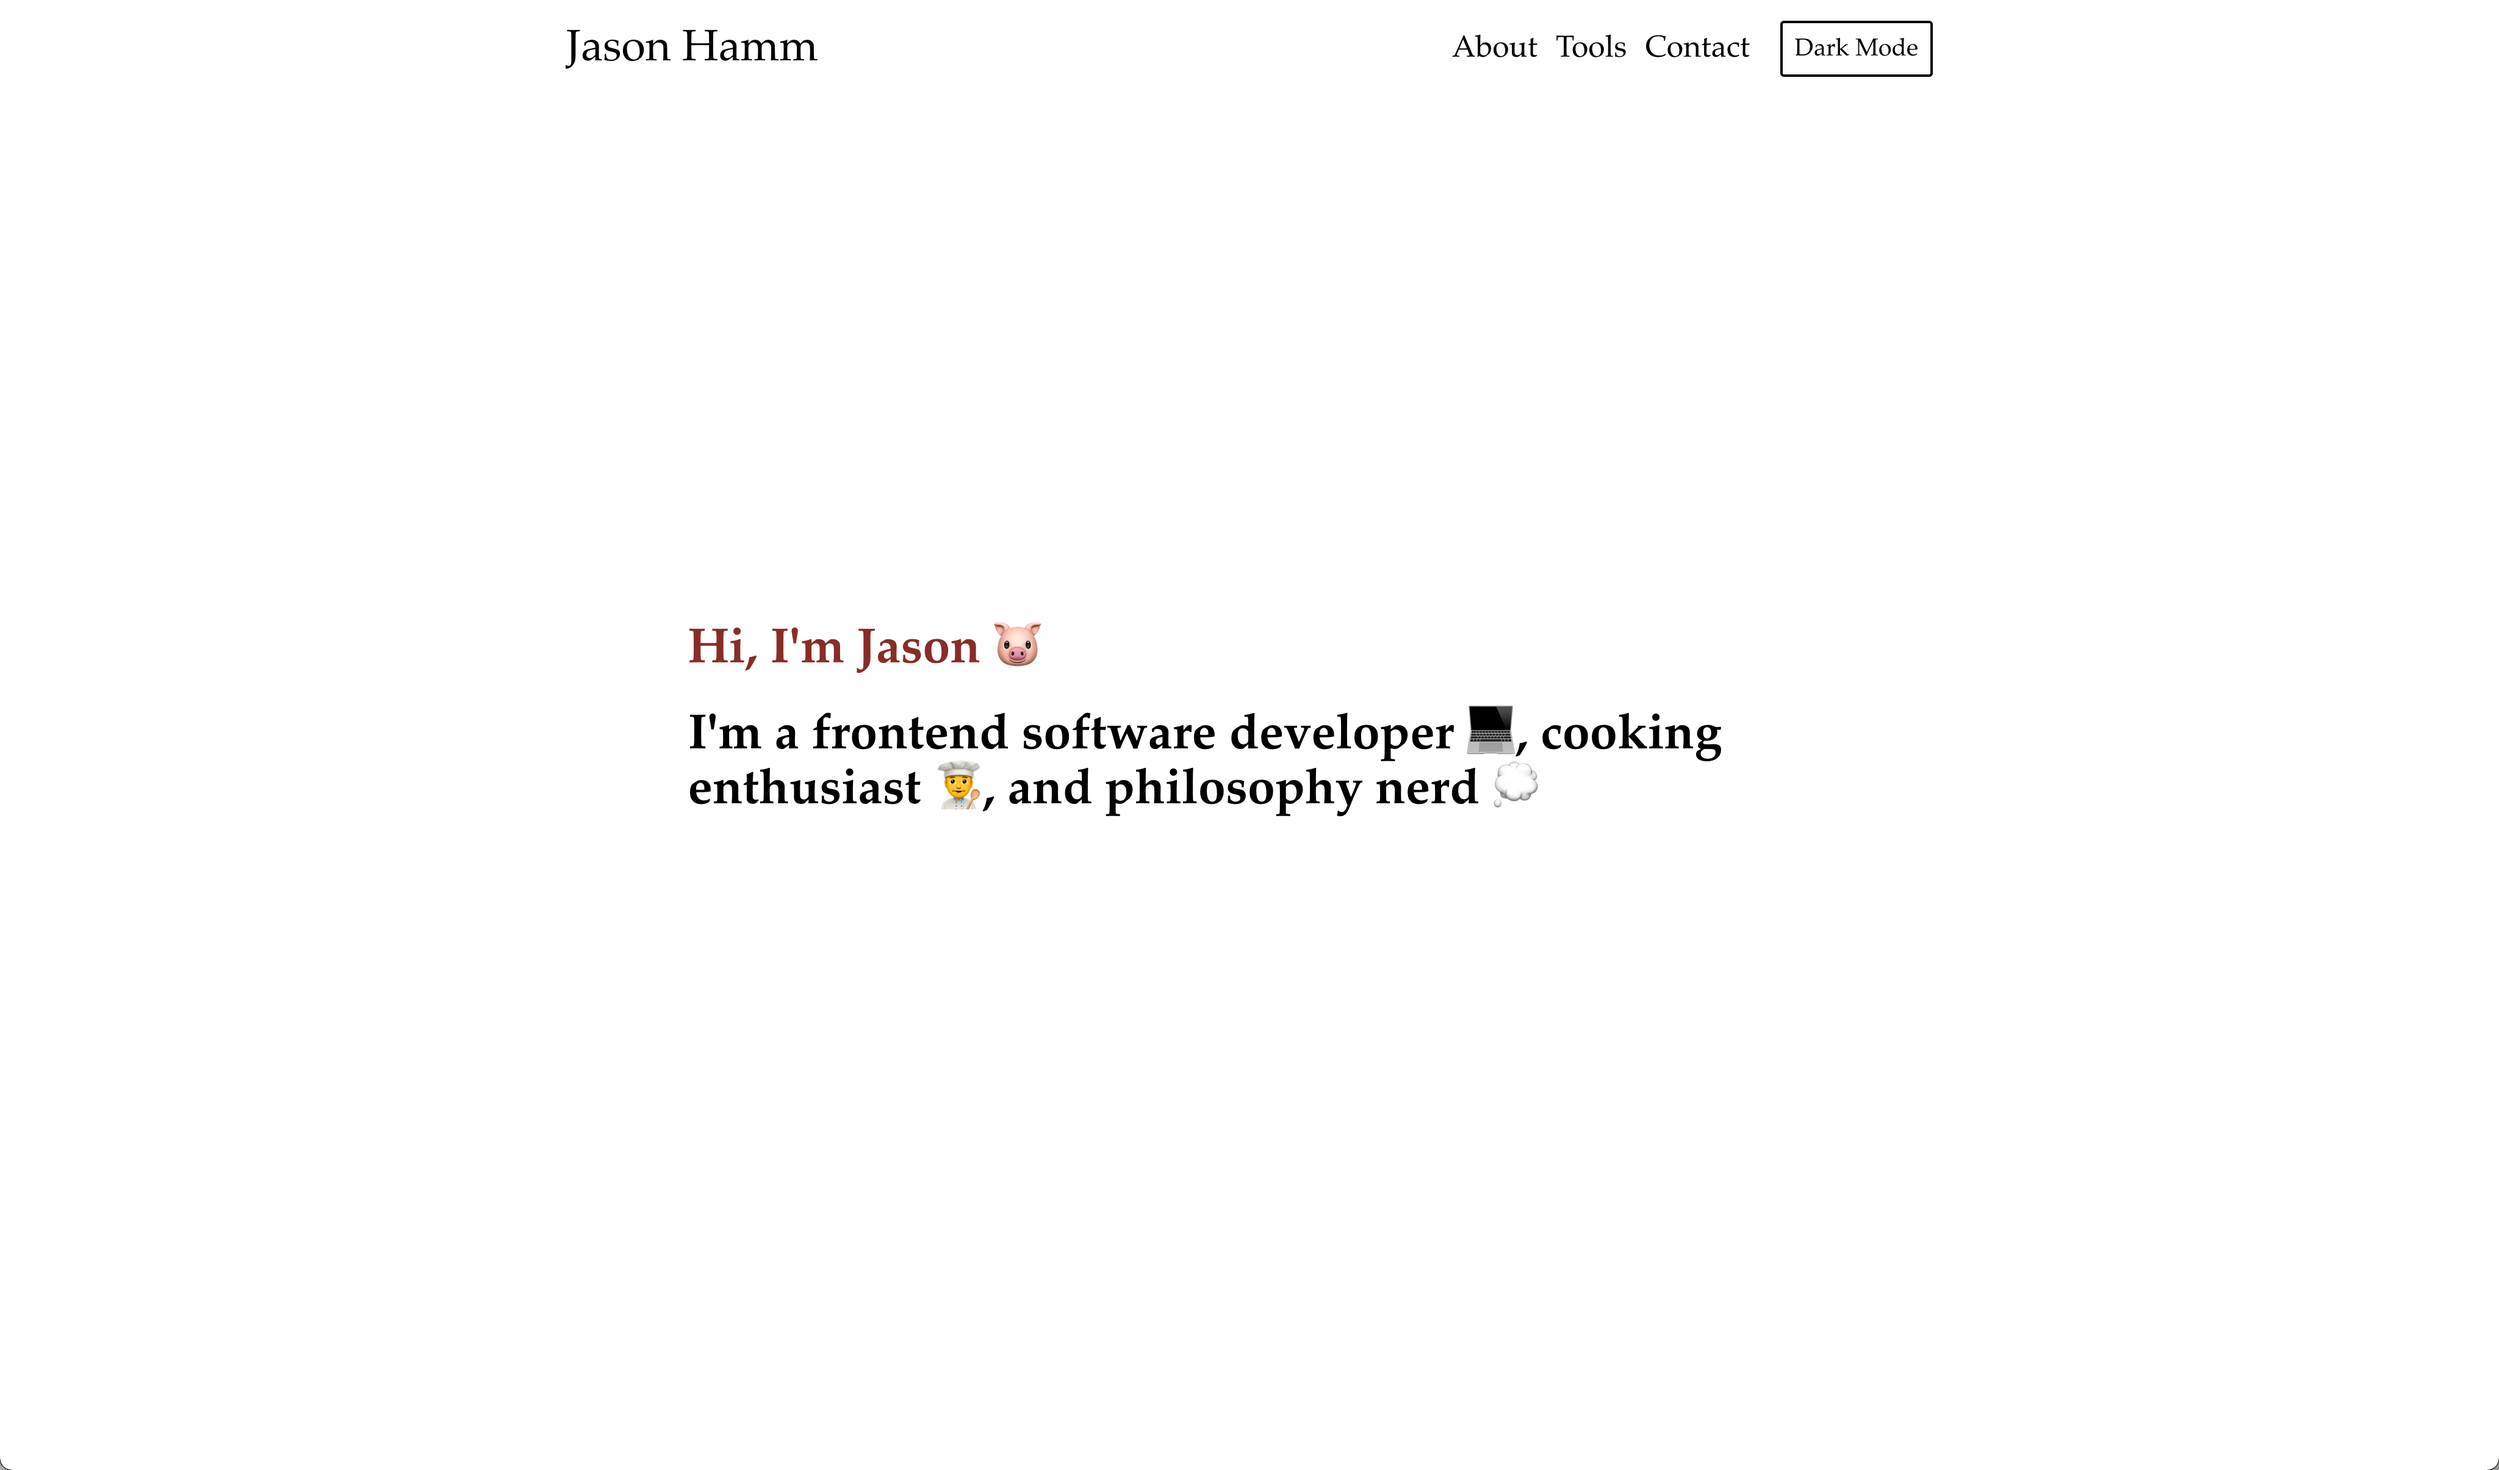
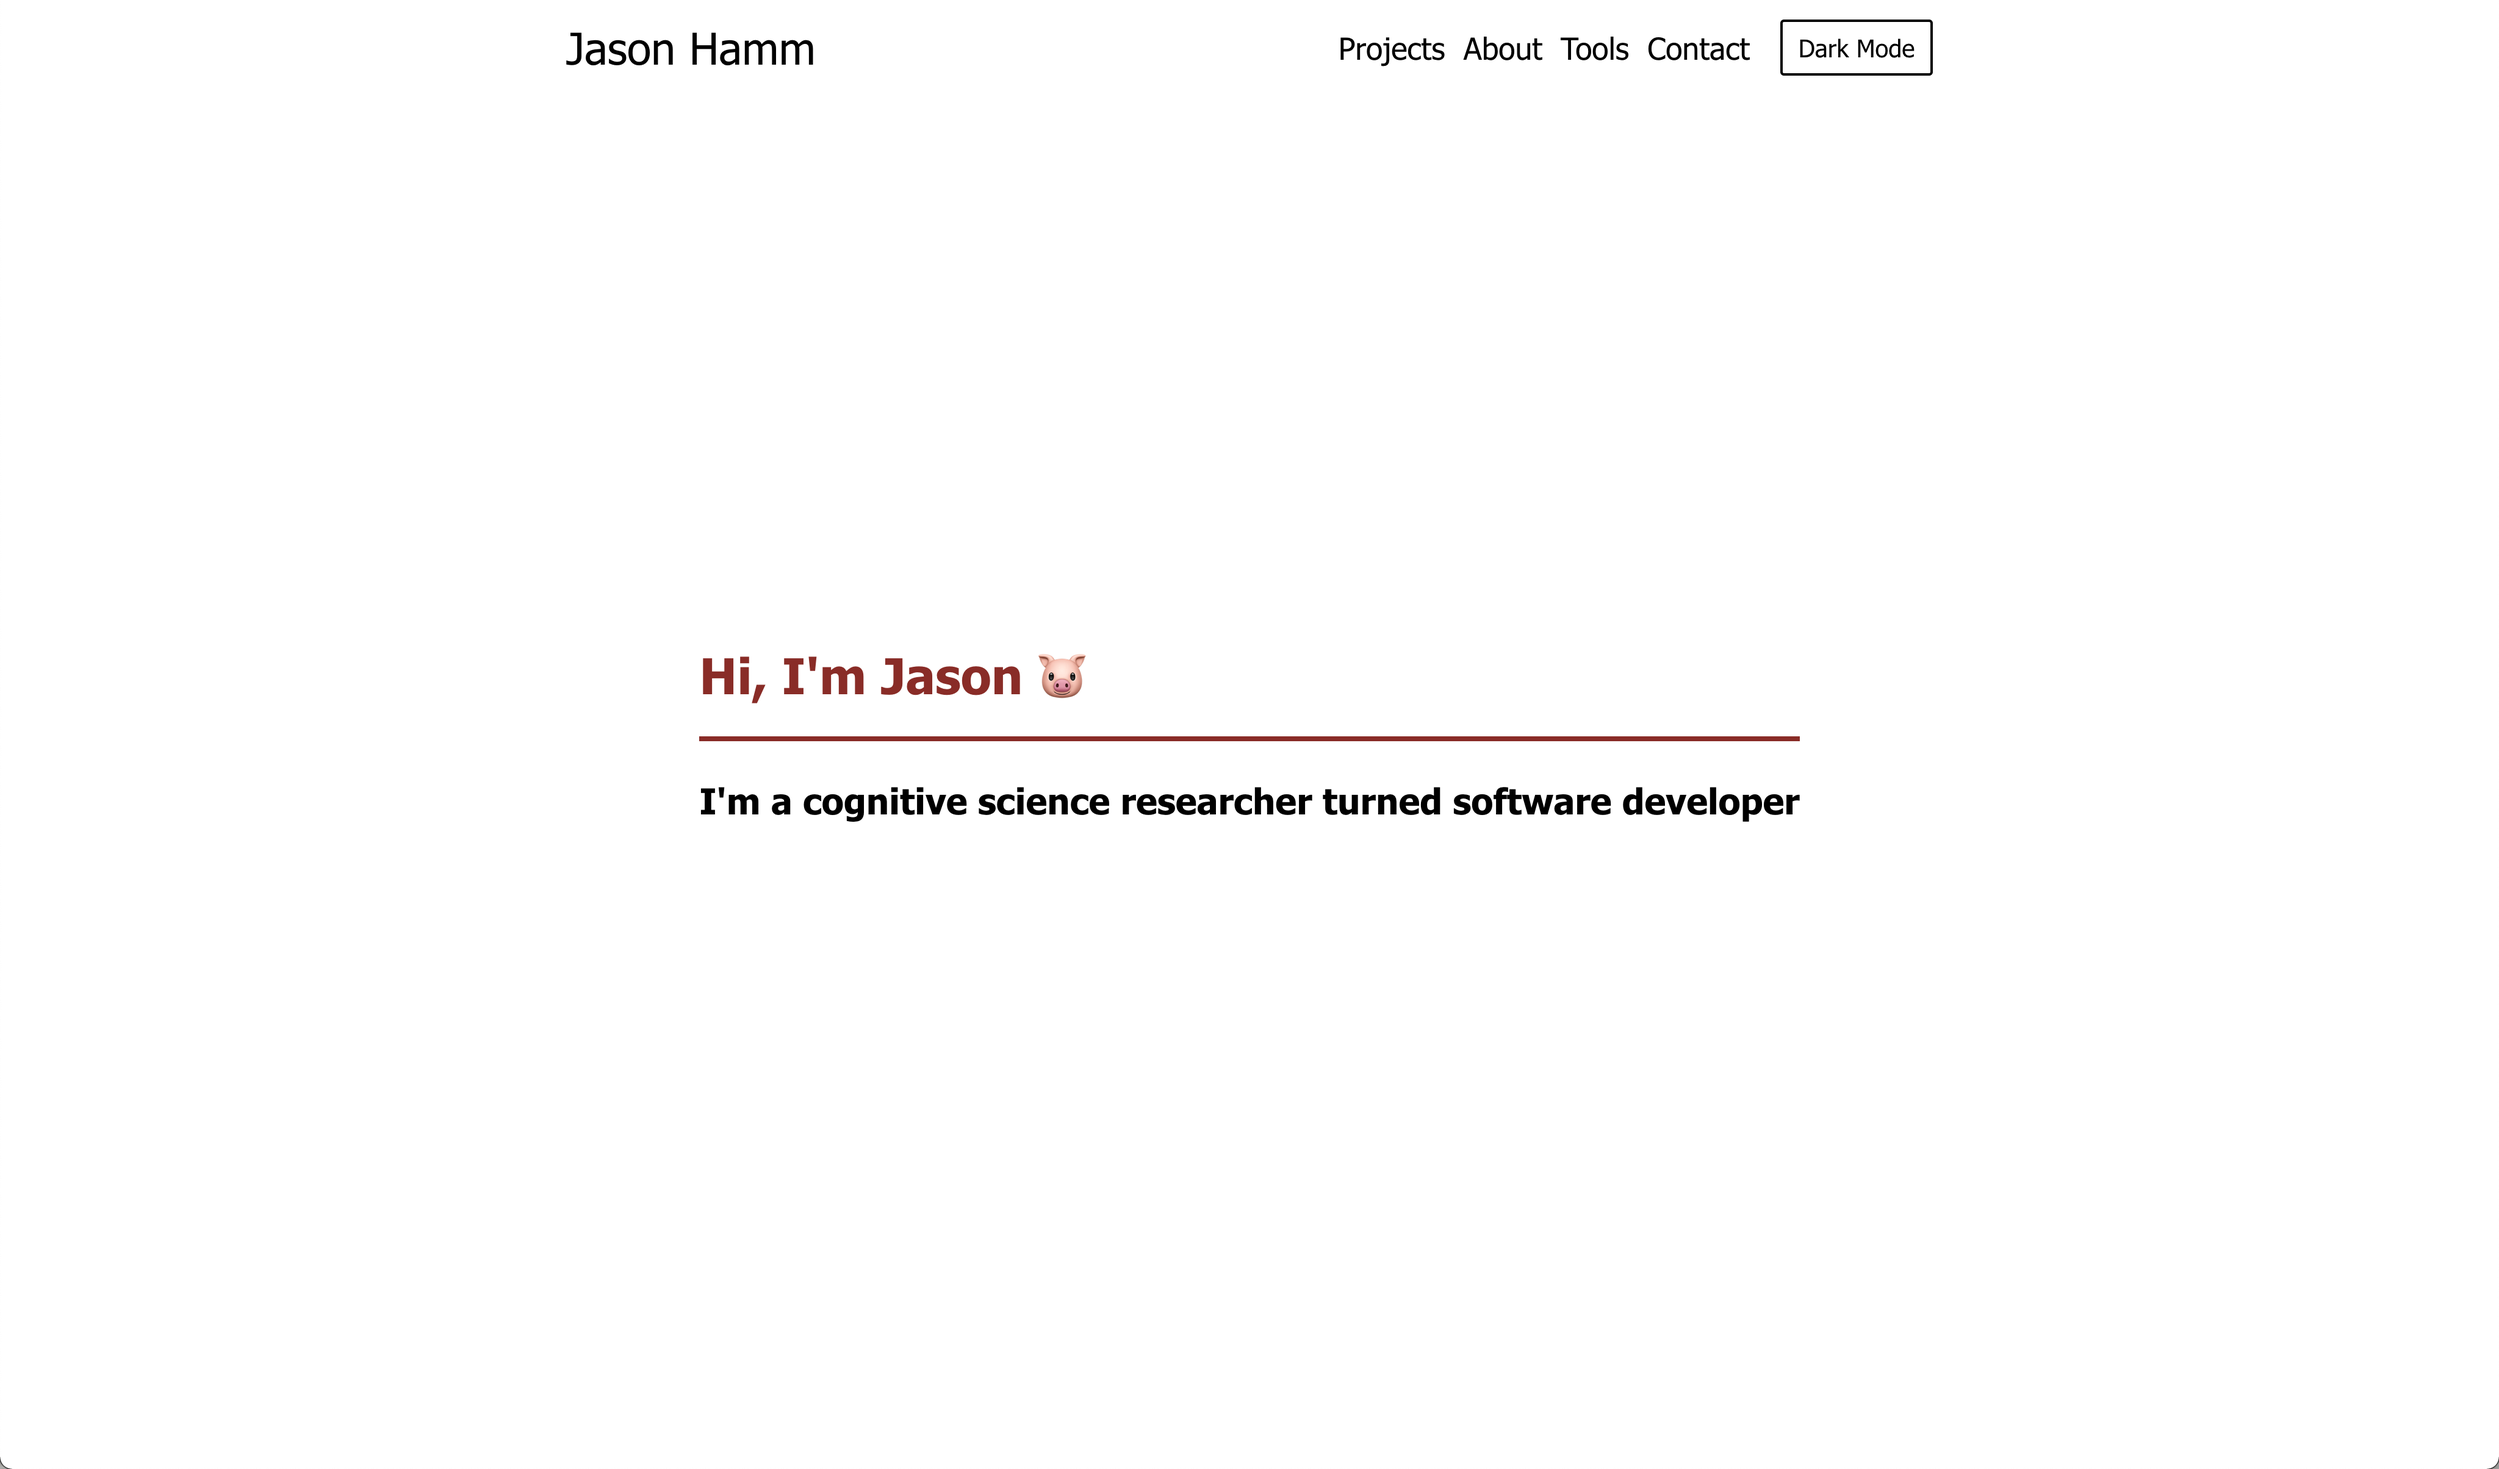
Update Content
- Update landing caption
- Update About wording
- Add R to Other Tools list
- Update Tools content
- Update Project images
- Change Tools images height
- Change fontTitle
- Update confirmation email message

diff --git a/src/components/Tools/Tools.jsx b/src/components/Tools/Tools.jsx
@@ -59,9 +59,9 @@ const Tools = () => {
         data-sal-easing="ease"
       >
         Tools come and go, but what stays are the ways those tools helped one
-        think about and solve a problem. I am always learning new tools,
-        refreshing old ones, and drilling the core concepts of deductive
-        reasoning and coding best practices. Here is a list of some of the tools
+        think about and solve a problem. I am always learning new tools and
+        refreshing old ones, this is one of the most exciting and fun parts of
+        programming. Here is a list of some of the current tools I use:
       </Description>
       <ListGrid>
         <TechColumn>

diff --git a/src/components/About/About.jsx b/src/components/About/About.jsx
@@ -53,7 +53,7 @@ const About = () => {
         in JavaScript, HTML, and CSS, and then analyzing the data collected with
         those programs in R and Python. I've always had an interest in
         programming but it wasn't until I worked as a lab manager and research
-        assistant in a cognitive neuroscience laboratory at my alma mater of
+        assistant in a cognitive neuroscience laboratory at my alma mater
         Cornell University, that I finally sunk my teeth into coding. Now, I
         have combined my love for learning and solving problems with my passion
         for programming and am eager to take on new problems in software

diff --git a/src/functions/sendMail.js b/src/functions/sendMail.js
@@ -24,7 +24,7 @@ exports.handler = async (event, context, callback) => {
     to: email,
     from: "hamm.inquiries@gmail.com",
     subject: "Thank you for reaching out!",
-    html: "Thank you for reaching out to me! I'll get back to you ASAP! <br /> <br /> Best, <br />Jason",
+    html: "Thank you for reaching out! I'll get back to you ASAP! <br /> <br /> Best, <br />Jason",
   };
 
   try {

diff --git a/src/components/Header/Header.jsx b/src/components/Header/Header.jsx
@@ -11,7 +11,7 @@ const Header = ({ siteTitle, theme, toggleTheme }) => {
       data-sal-easing="ease"
     >
       <SideWrapper side="flex-start">
-        <NavLink to="/#landing" title="contact">
+        <NavLink to="/#landing" title="landing">
           {siteTitle}
         </NavLink>
       </SideWrapper>

diff --git a/src/components/Header/Header.styled.jsx b/src/components/Header/Header.styled.jsx
@@ -23,7 +23,7 @@ export const SideWrapper = styled.div`
 `;
 
 export const NavLink = styled(AnchorLink)`
-  font-family: Palatino;
+  font-family: ${(props) => props.theme.fontTitle};
   text-decoration: none;
   max-height: 80px;
   margin-left: 15px;

diff --git a/src/components/Tools/Tools.styled.jsx b/src/components/Tools/Tools.styled.jsx
@@ -28,7 +28,7 @@ export const TechListItem = styled.li`
 
 export const TechListItemImage = styled.img`
   padding-left: 10px;
-  width: 40px;
+  height: 30px;
 `;
 
 export const TechColumn = styled.div``;

diff --git a/src/components/Common/SectionTitle/SectionTitle.styled.jsx b/src/components/Common/SectionTitle/SectionTitle.styled.jsx
@@ -1,5 +1,5 @@
 import styled from "styled-components";
 
 export const Title = styled.h1`
-  font-family: Palatino;
+  font-family: ${(props) => props.theme.fontTitle};
 `;

diff --git a/src/theme.js b/src/theme.js
@@ -1,5 +1,5 @@
 const generalTheme = {
-  fontTitle: "Palatino",
+  fontTitle: "Tahoma",
   fontBody: "Trebuchet MS",
   colorBlack: "black",
   colorWhite: "white",

diff --git a/src/cms/tools/other.md b/src/cms/tools/other.md
@@ -7,6 +7,8 @@ tools:
     tool-image: /assets/unix.png
   - tool-name: TypeScript
     tool-image: /assets/typescript.png
+  - tool-name: R
+    tool-image: /assets/R.png
   - tool-name: Vim
     tool-image: /assets/vim.png
 ---

diff --git a/src/cms/landing/landing.md b/src/cms/landing/landing.md
@@ -2,4 +2,4 @@
 title: "Hi, I'm Jason 🐷"
 ---
 
-I'm a software developer, cooking hobbyist, and philosophy nerd
+I'm a cognitive science researcher turned software developer
